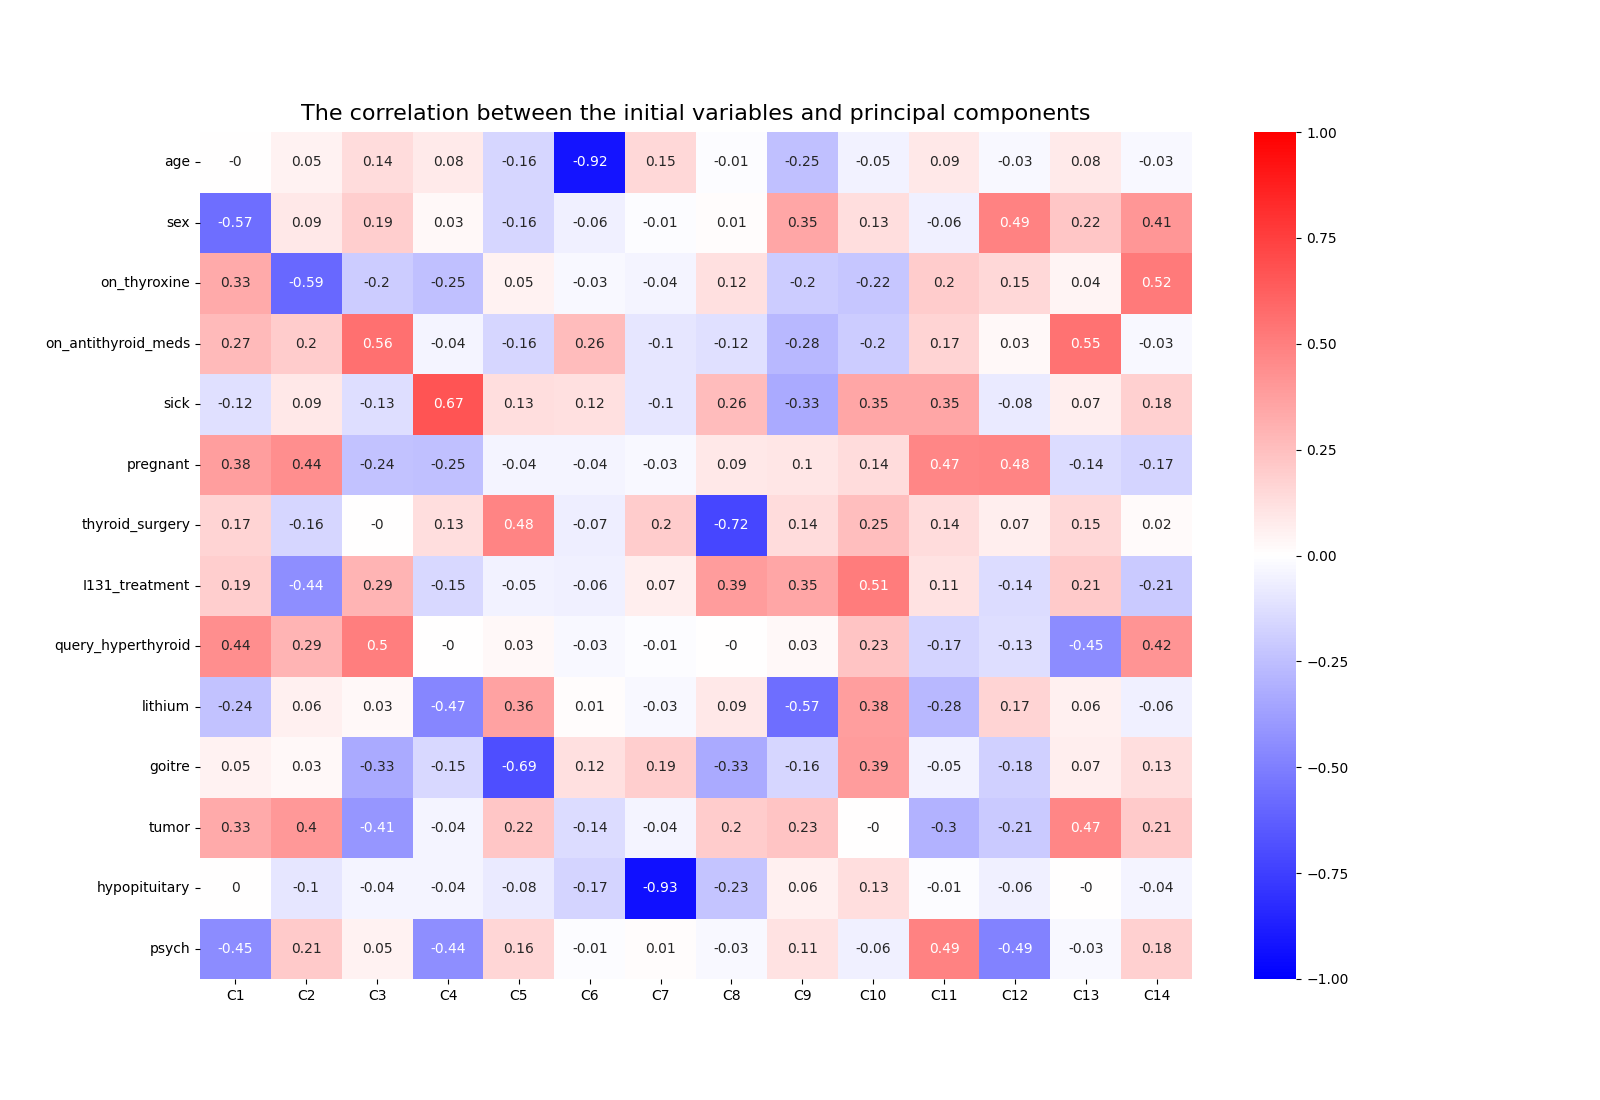
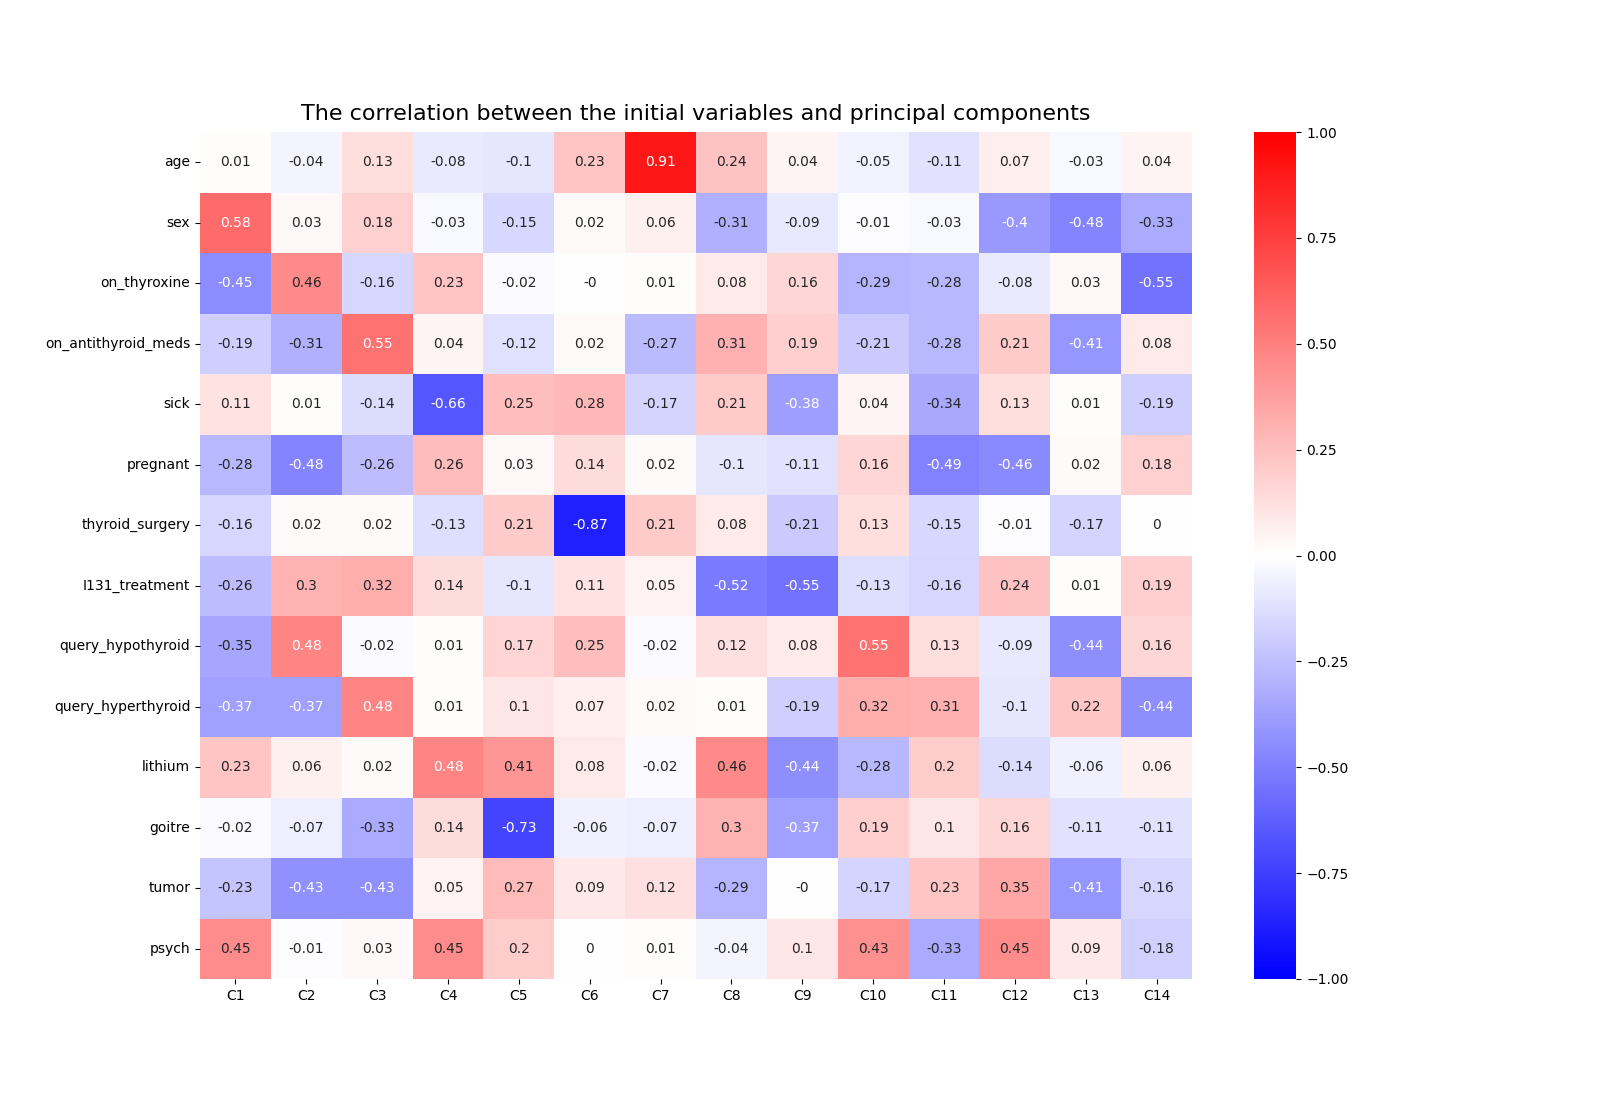
repaired graphs

diff --git a/util/datasetPCA.py b/util/datasetPCA.py
@@ -24,7 +24,7 @@ def replaceNAN(X):
 cols = thyroid_df.columns.values
 th = replaceNAN(thyroid_df.values)
 thyroid_df = pd.DataFrame(data=th, columns=cols)
-thyroid_df.drop(['query_on_thyroxine', 'query_hypothyroid'], inplace=True, axis=1)
+thyroid_df.drop(['query_on_thyroxine', 'hypopituitary'], inplace=True, axis=1)
 
 scaler = StandardScaler()
 thyroid_df[thyroid_df.columns] = scaler.fit_transform(thyroid_df)
